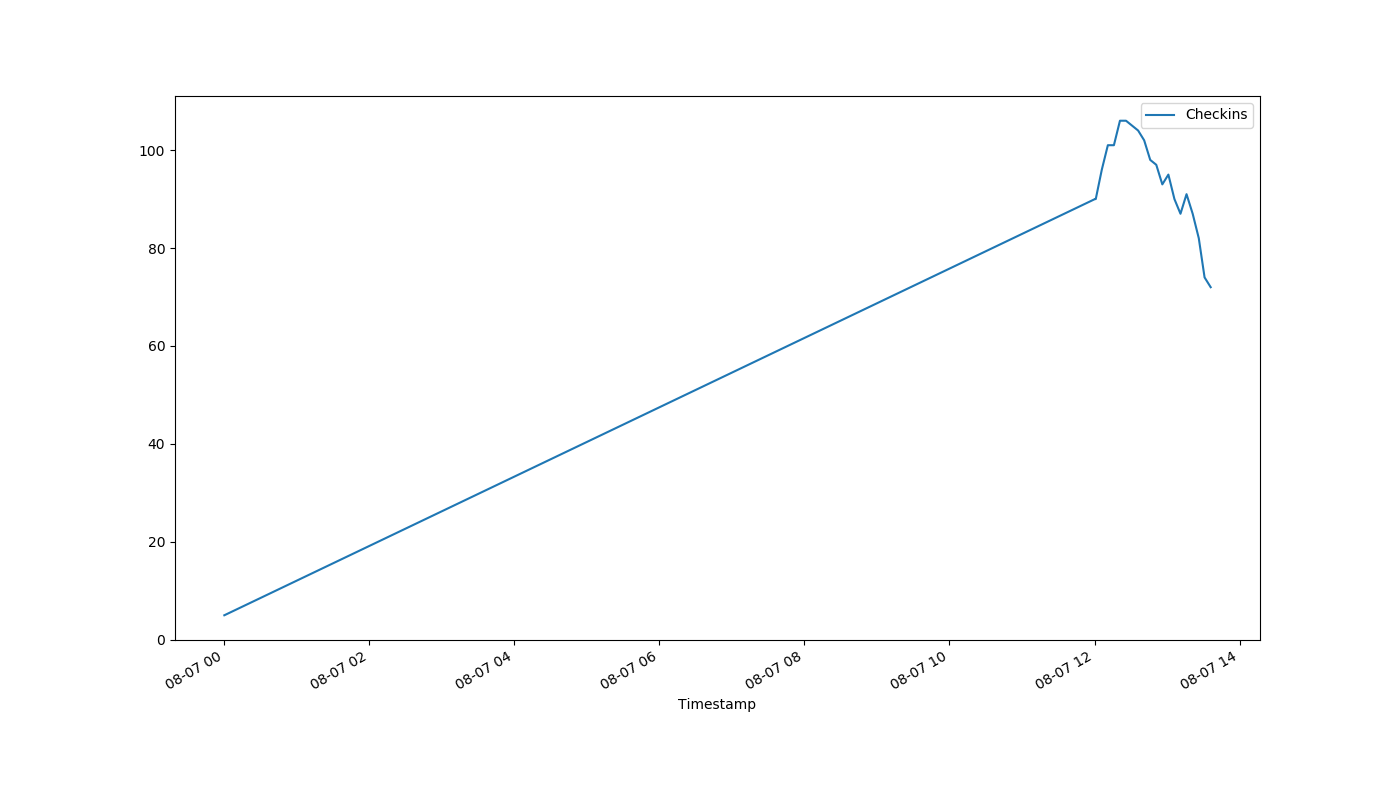
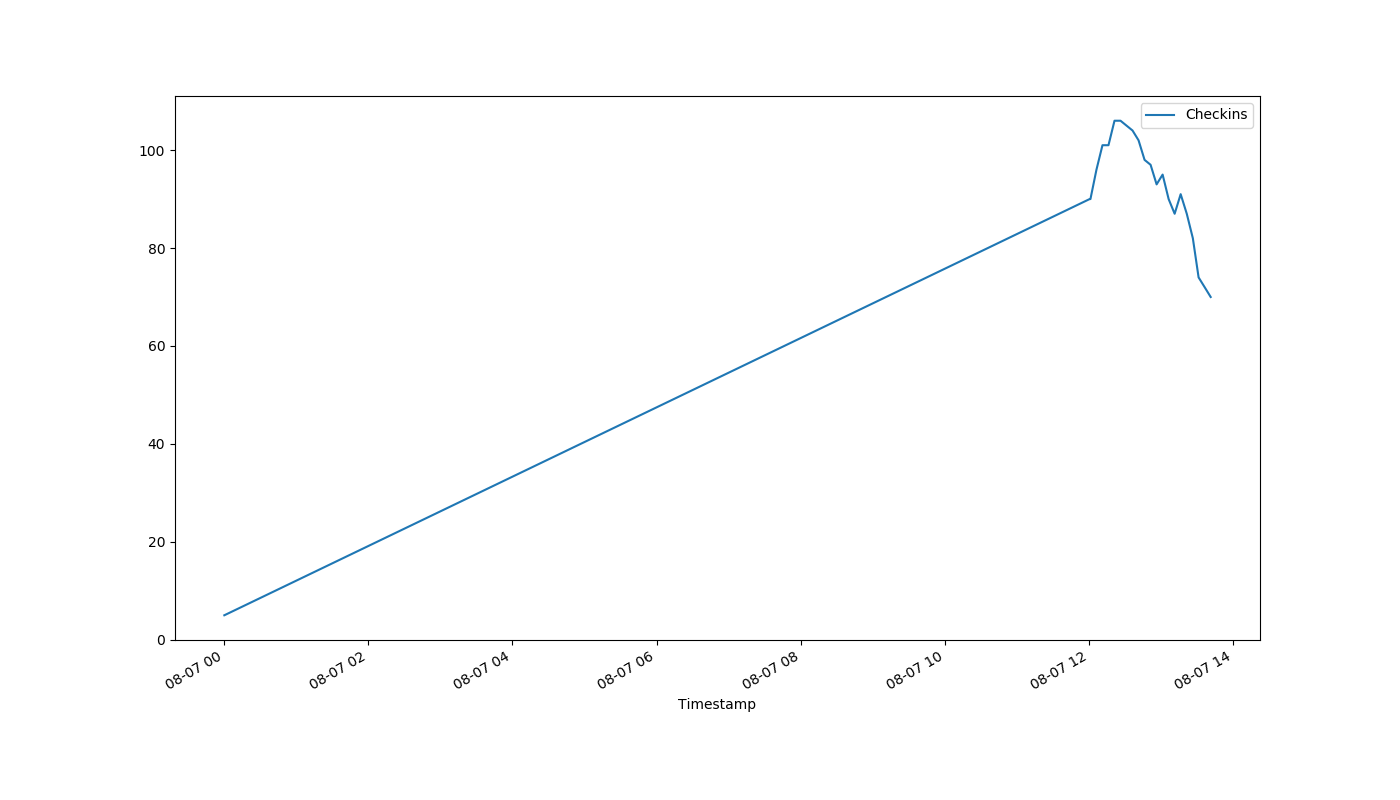
auto-Aug-07-13:41:28

diff --git a/index.html b/index.html
@@ -1,1 +1,1 @@
-<!DOCTYPE html><html><head><meta http-equiv="refresh" content="30"><link rel='stylesheet' href='holmcurrent.css'></head><body><p id='count'>72</p><div id='graph-wrap'><img id='graph' src='holmgraph-Aug-07.png'></div><p id='updated'>Last updated 13:36:12 / 13:36:04</p></body></html>
+<!DOCTYPE html><html><head><meta http-equiv="refresh" content="30"><link rel='stylesheet' href='holmcurrent.css'></head><body><p id='count'>70</p><div id='graph-wrap'><img id='graph' src='holmgraph-Aug-07.png'></div><p id='updated'>Last updated 13:41:13 / 13:41:05</p></body></html>
